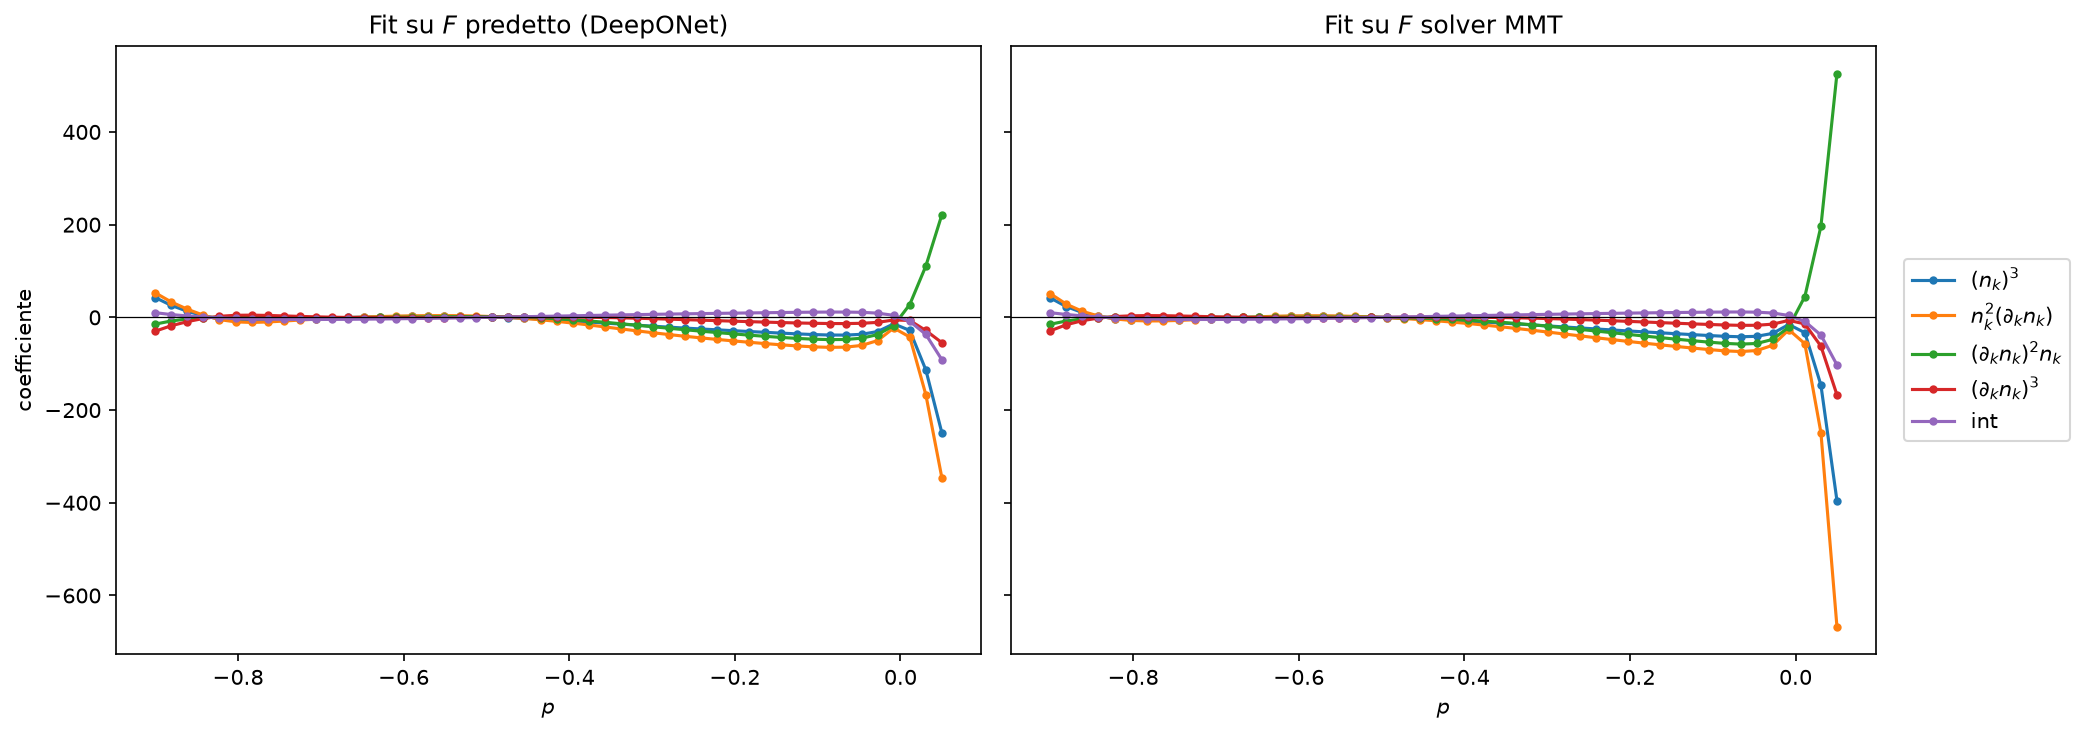
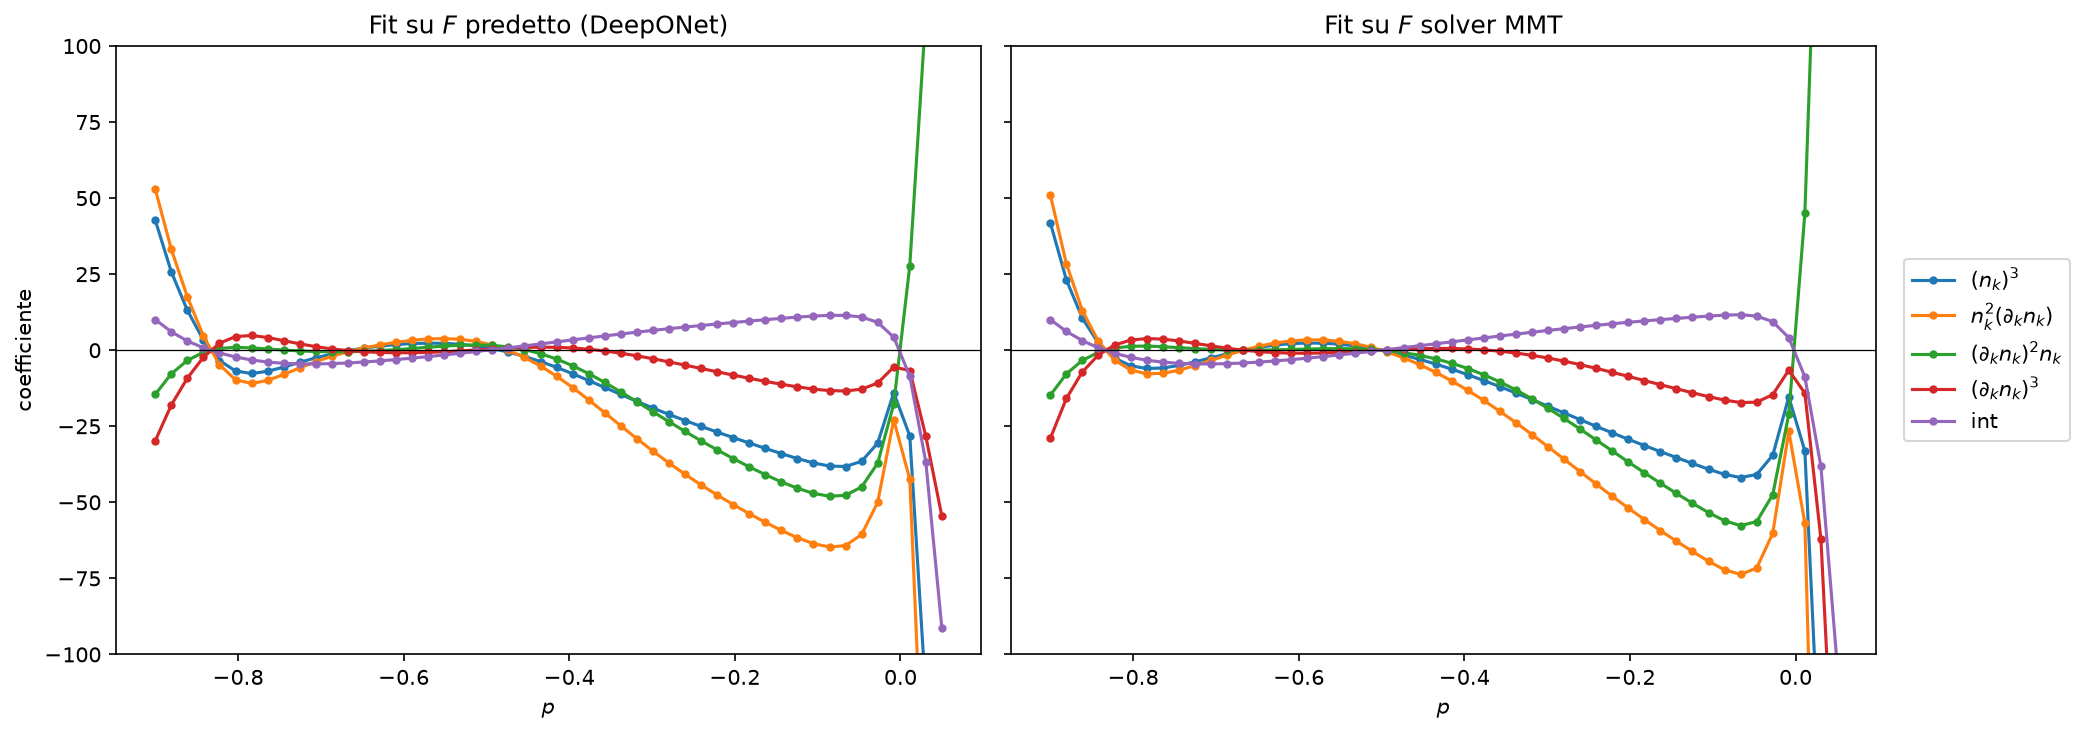
refactor: enhance plotting functions and update visualization parameters for clarity

diff --git a/src/training/flux_validation_plots.py b/src/training/flux_validation_plots.py
@@ -164,8 +164,7 @@ def plot_flux_vs_k_mmt(model, ps, A, beta, k_min, k_max, sensor_grid,
 
 
 def plot_flux_vs_p_mmt(model, ps, A, beta, k_min, sensor_grid, k_c,
-                        ps_true=None, N=300, IntN=200,
-                        kz_lines=None, save_path=None, show=True):
+                        ps_true=None, N=300, IntN=200, save_path=None, show=True):
     """
     Riproduce il tipo di plot di Salvatore et al. Fig.3: flusso F in funzione
     della pendenza spettrale p, per un k_c fissato — confronto DeepONet vs
@@ -191,19 +190,25 @@ def plot_flux_vs_p_mmt(model, ps, A, beta, k_min, sensor_grid, k_c,
         for p in ps_true
     ])
 
-    plt.figure(figsize=(8, 5))
-    plt.plot(ps, F_pred, linewidth=2, label="DeepONet")
-    plt.plot(ps_true, F_true, "--", linewidth=1, markersize=4, label="MMT solver")
+    plt.figure(figsize=(12, 5))
+    plt.plot(ps, F_pred, linewidth=3, label="DeepONet", color = "darkred")
+    plt.plot(ps_true, F_true, "--", linewidth=3,  label="MMT solver", color ="grey")
+    plt.grid(color="lightgrey", linestyle="-", linewidth=0.4)
     plt.axhline(0, color="black", linewidth=0.8)
 
-    if kz_lines:
-        for label, p_val in kz_lines.items():
-            plt.axvline(p_val, linestyle="--", linewidth=1, label=label)
+    alpha_mmt = 0.5
+    beta_mmt = 0.25
+    eq1 = (2 * beta_mmt / (3 * alpha_mmt)) - 1 / alpha_mmt
+    eq1K = eq1 / 2
 
-    plt.xlabel(r"pendenza spettrale $p$")
-    plt.ylabel(r"flusso $F$")
+    plt.axvline(eq1K, linestyle="--", linewidth=0.8, color="black", label="Energy KZ Sol.")
+    plt.axvline(-0.5, linestyle="-.", linewidth=0.8, color="black", label="Energy Equipartition")
+
+    plt.xlabel(r"Spectral Power $p$")
+    plt.ylabel(r"$^1 P^4_1$")
     plt.ylim(-5, 15)
-    plt.title(r"Flusso: DeepONet vs solver MMT ($^{\rho}P^4_{(0, 1) \rightarrow (1, \infty)}$)")
+    plt.xlim(-0.9, 0.15)
+    plt.title(r"Wave action flux: DeepONet vs solver MMT ($^1 P^4_{(0, 1) \rightarrow (1, \infty)}$)")
     plt.legend()
     plt.tight_layout()
     if save_path:

diff --git a/main_mmt.py b/main_mmt.py
@@ -38,18 +38,18 @@ model.eval()
 
 test_data = splits["test"]
 
-k_c_fixed = 0.5
-profile_example = test_data["profiles"][0]
+#k_c_fixed = 0.5
+#profile_example = test_data["profiles"][0]
 
 plot_flux_vs_p_mmt(
     model, ps=np.linspace(-0.9, 0.05, 100), A=1.0, beta=0.25, k_c = 1,
     k_min=config.K_MIN, sensor_grid=data["sensor_grid"],
-    N = 900, IntN = 600, kz_lines = None, ps_true = np.linspace(-0.9, 0.05, 200),
+    N = 900, IntN = 600, ps_true = np.linspace(-0.9, 0.05, 200),
     save_path="outputs_mmt/flux_vs_p_mmt.png", show=False
 )
 
-plot_coefficients_vs_p(
-    model, sensor_grid=data["sensor_grid"], ps=np.linspace(-0.9, 0.05, 50), A=1.0,
-    k_c_values=np.linspace(0.1, 1.0, 20),beta=0.25, N=900, IntN=600, max_order=3,
-    save_path="outputs_mmt/coefficients_vs_p_mmt.png", show=False
-)
+#plot_coefficients_vs_p(
+#    model, sensor_grid=data["sensor_grid"], ps=np.linspace(-0.9, 0.05, 50), A=1.0,
+#    k_c_values=np.linspace(0.1, 1.0, 20),beta=0.25, N=900, IntN=600, max_order=3,
+#    save_path="outputs_mmt/coefficients_vs_p_mmt.png", show=False
+#)

diff --git a/src/physics/operator_library_mmt.py b/src/physics/operator_library_mmt.py
@@ -81,6 +81,7 @@ def plot_coefficients_vs_p(model, sensor_grid, ps, A, k_c_values, beta=0.25,
         ax.axhline(0, color="black", linewidth=0.6)
         ax.set_xlabel(r"$p$")
         ax.set_title(titolo)
+        ax.set_ylim(-100, 100)
 
     ax1.set_ylabel("coefficiente")
     ax2.legend(loc="center left", bbox_to_anchor=(1.02, 0.5))
